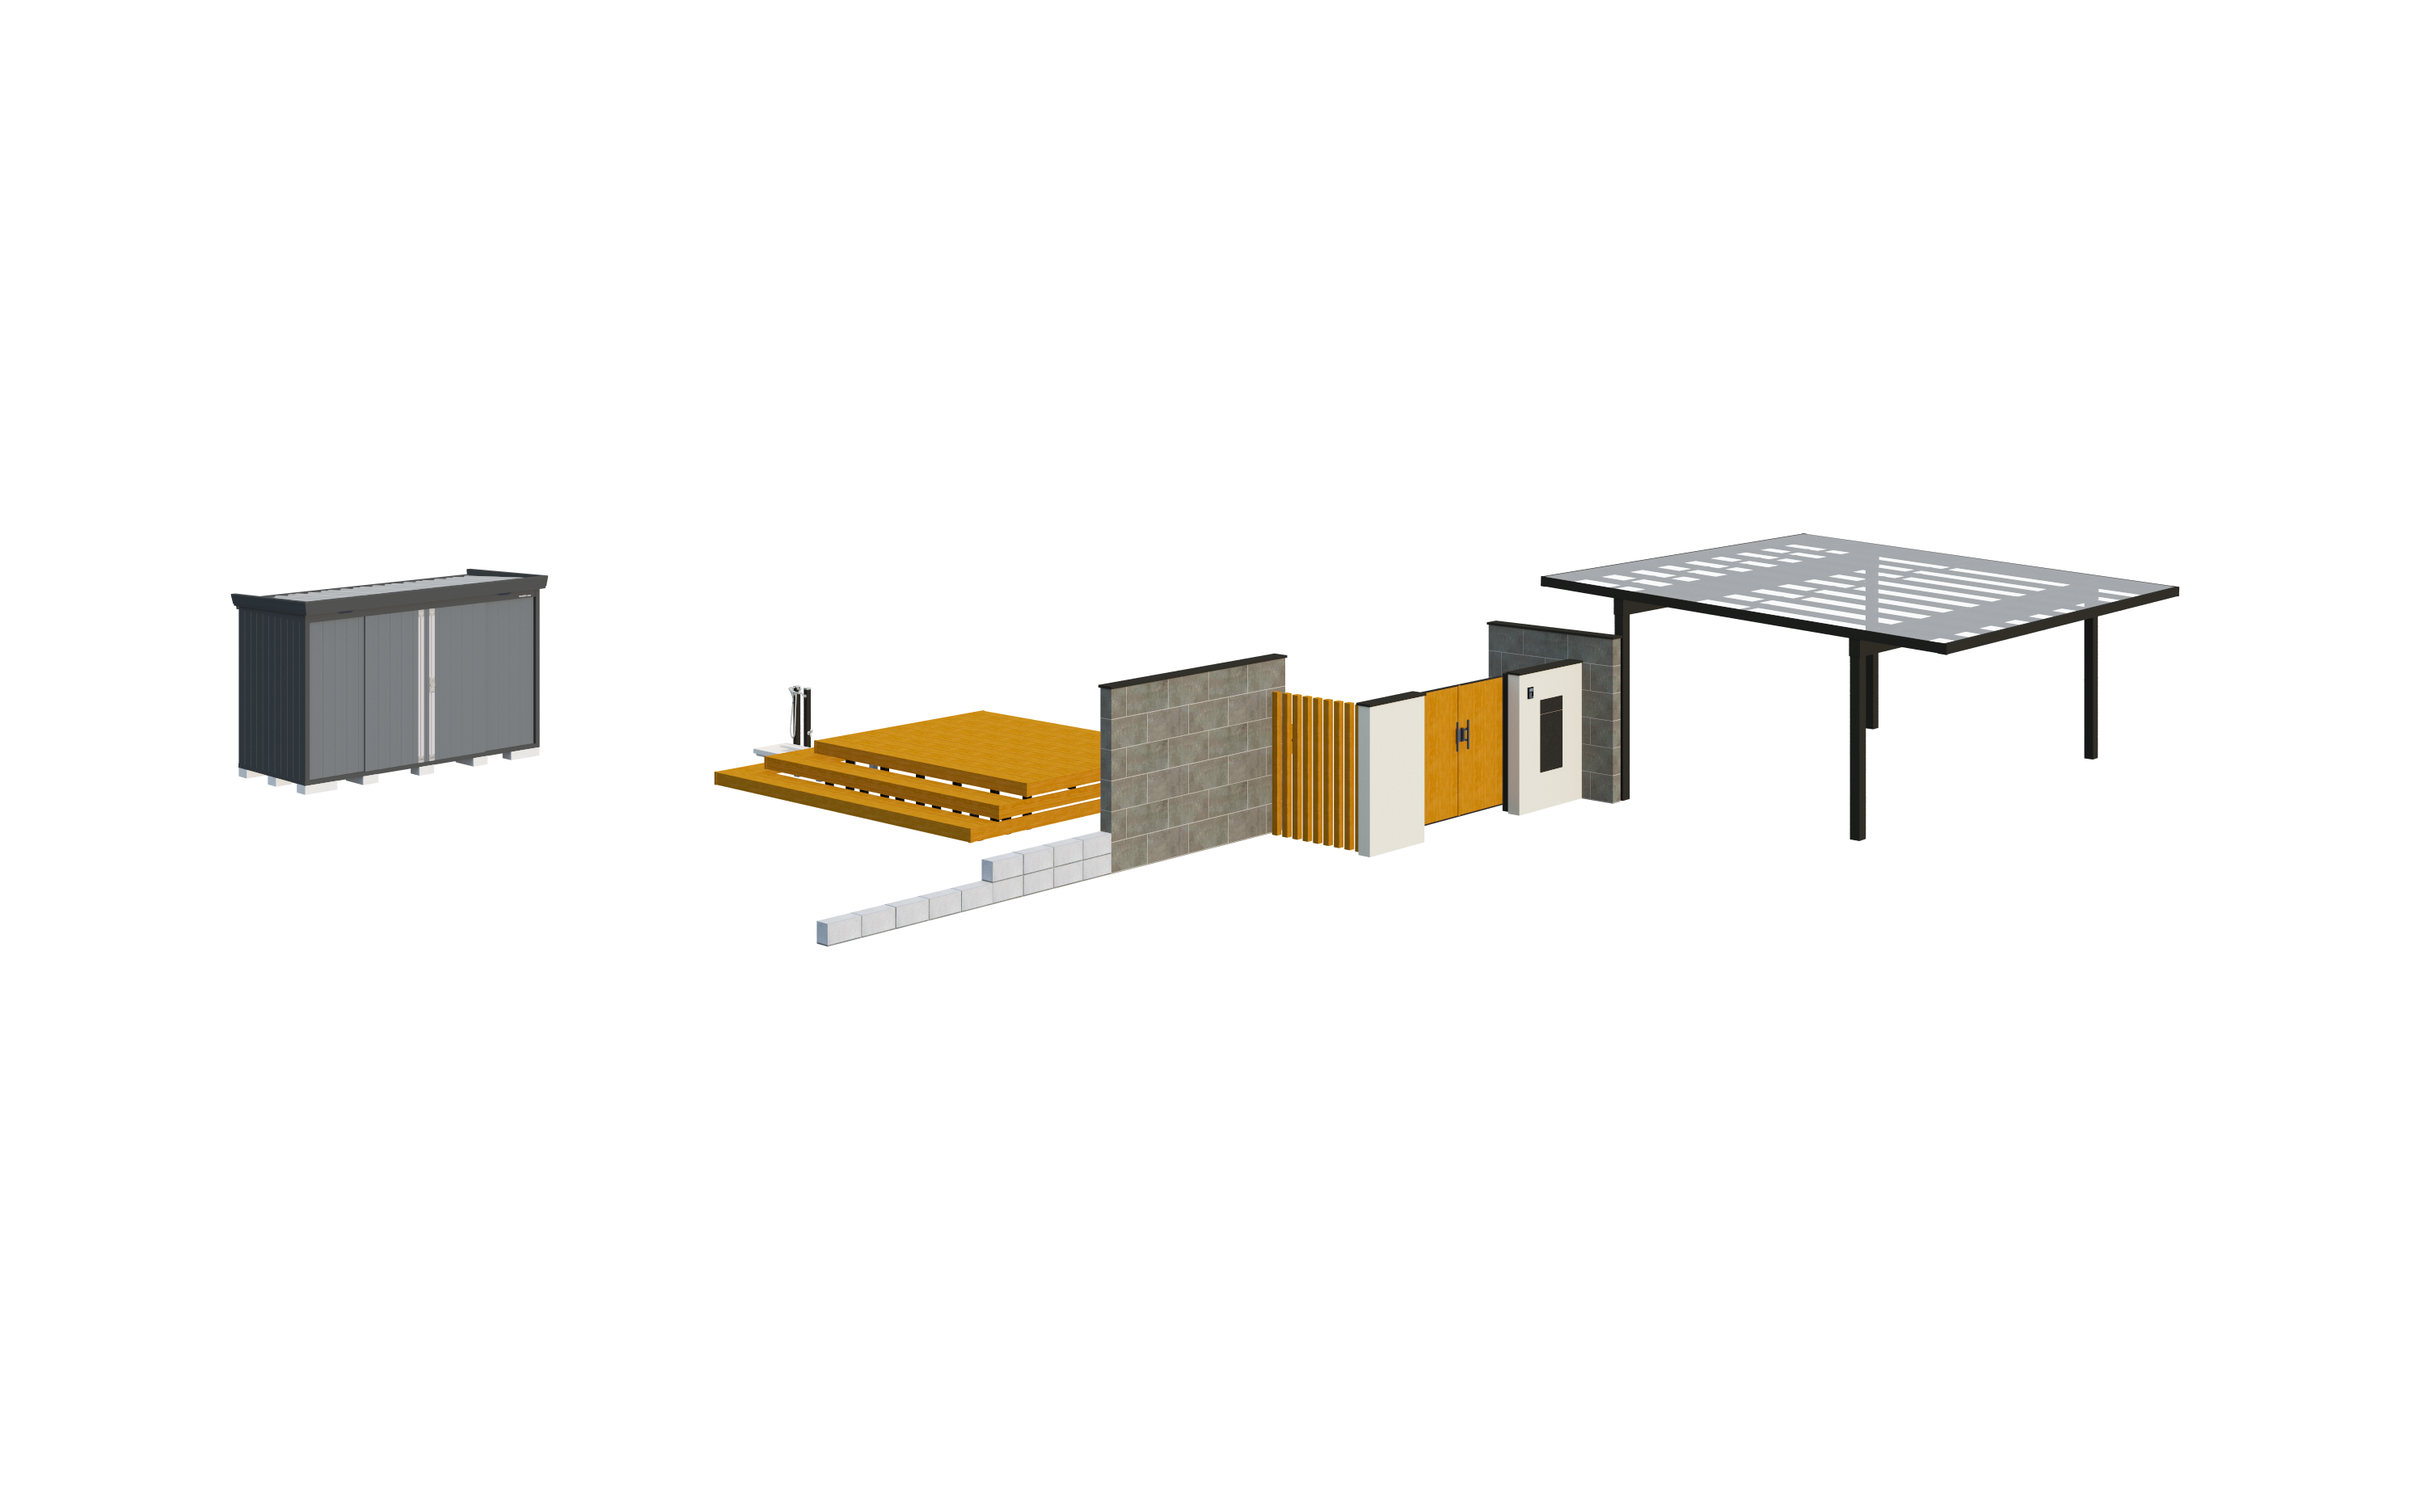
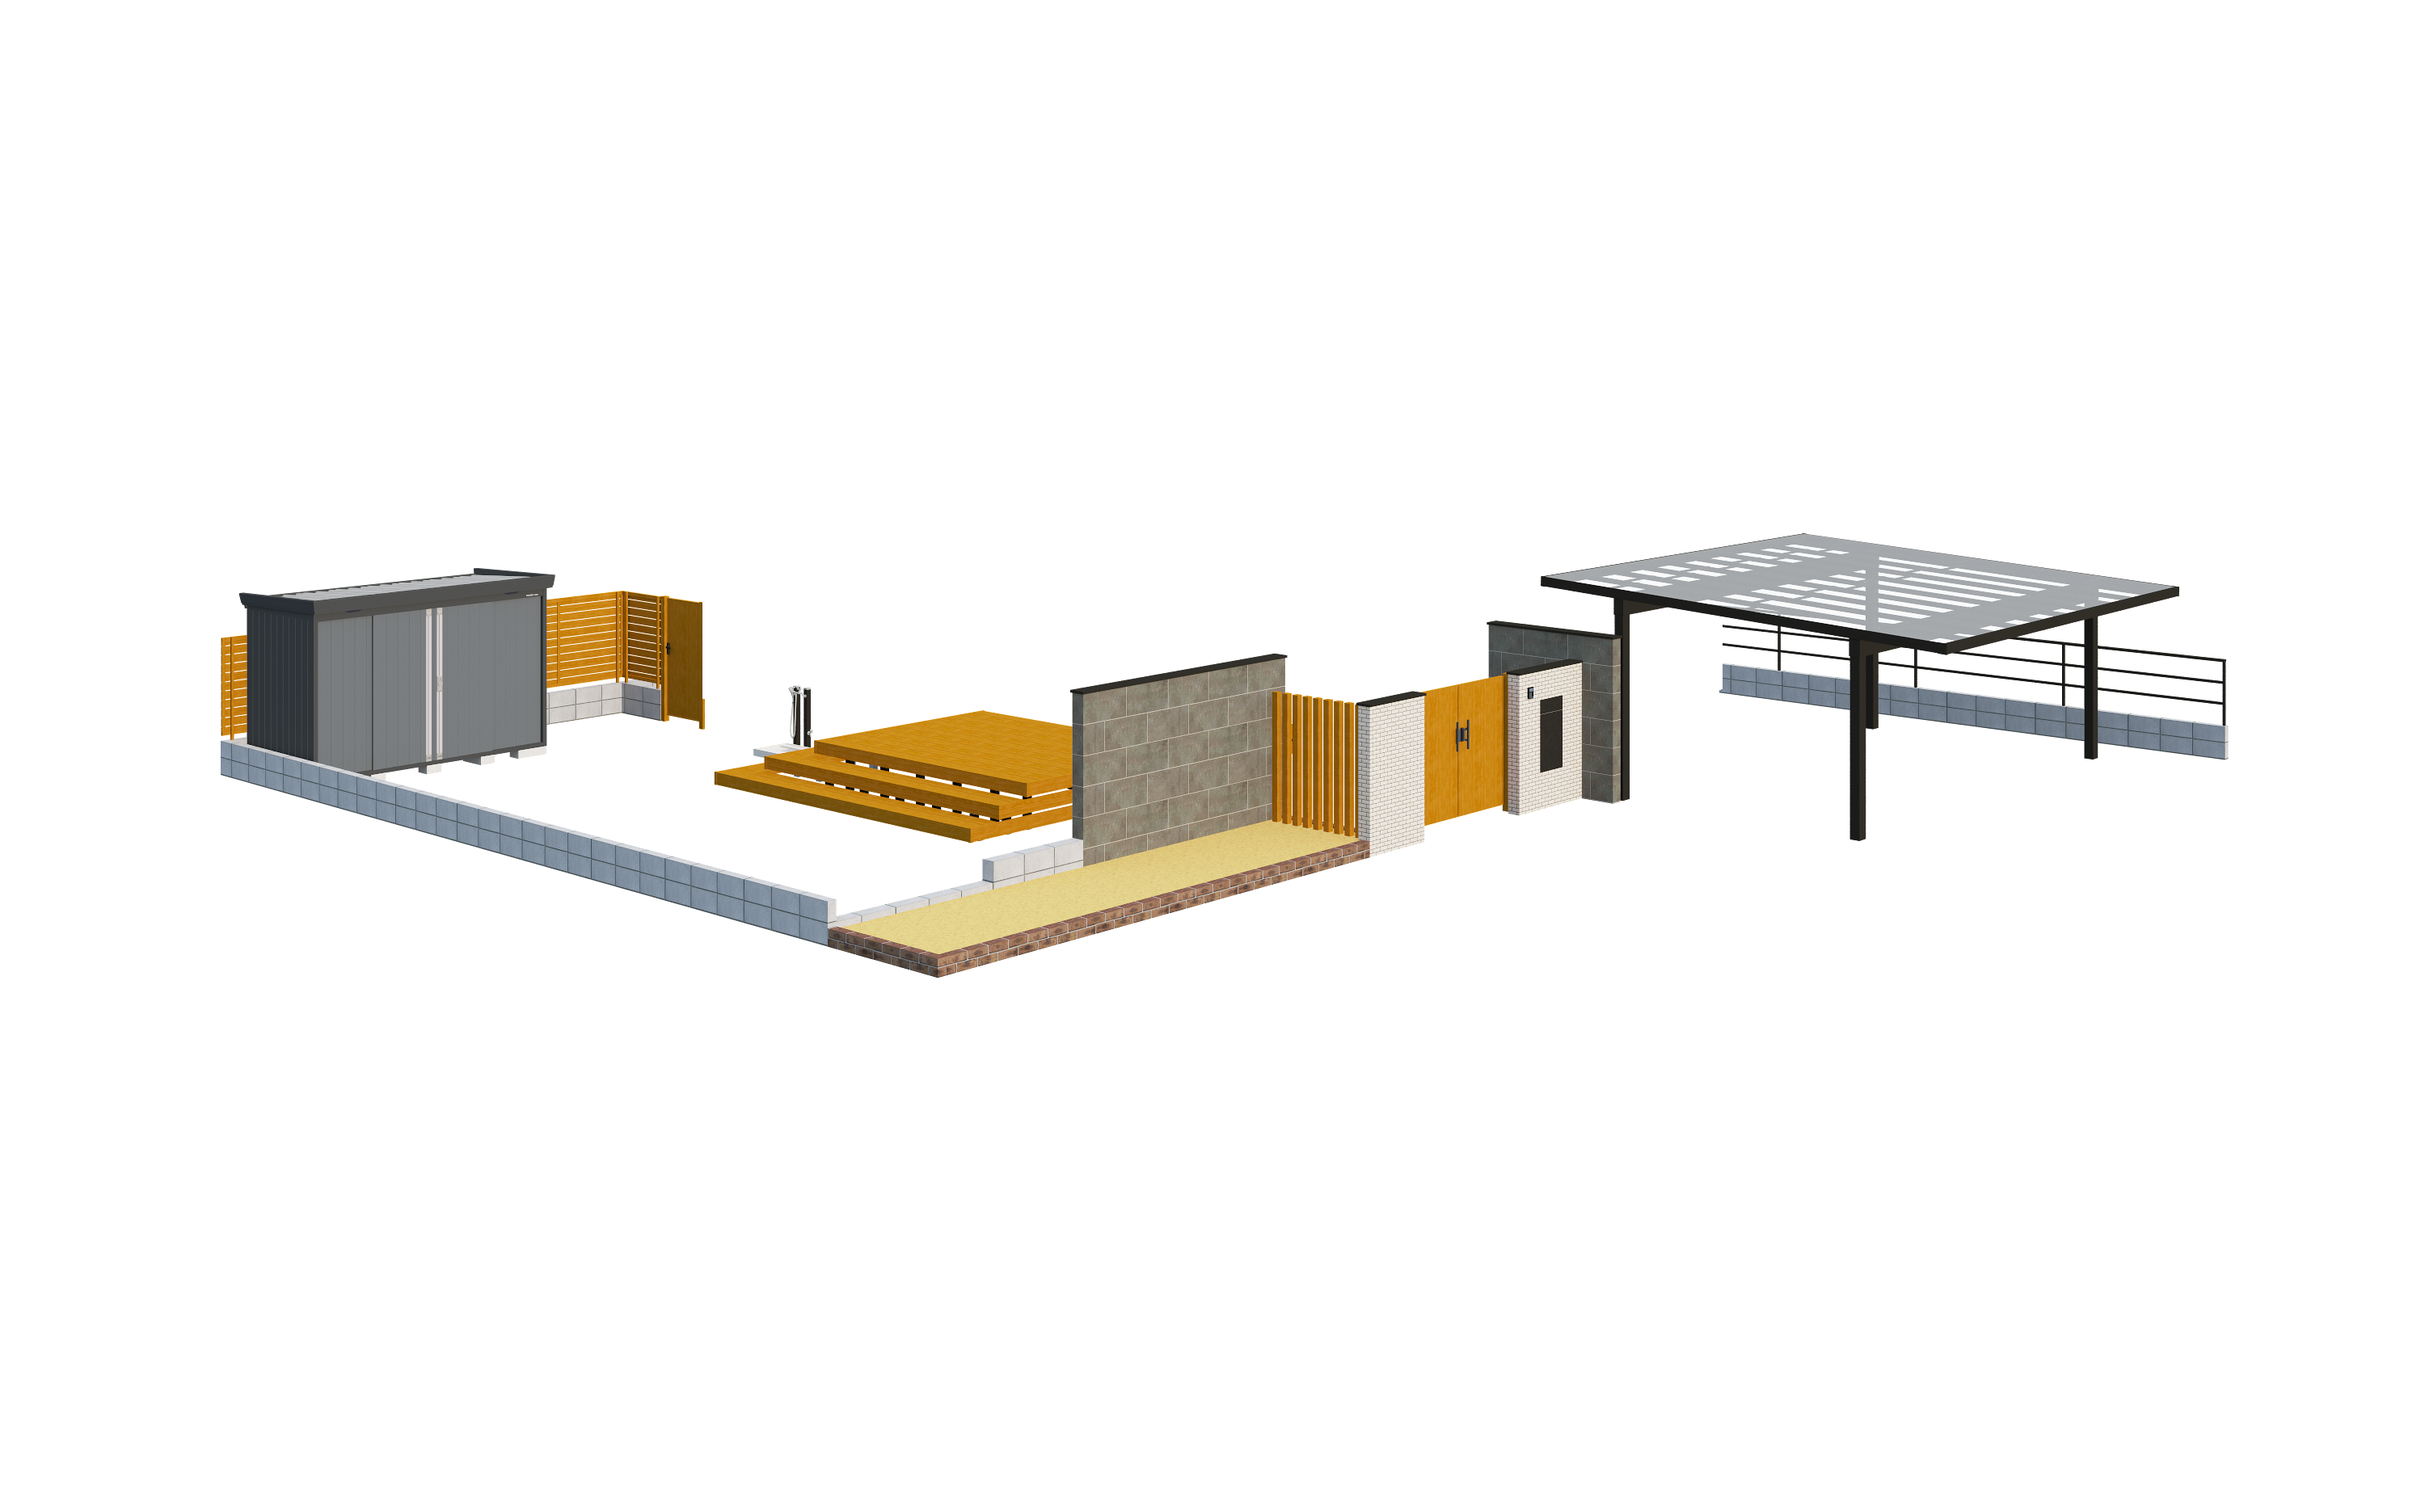
2026年10月27日 17:22

diff --git a/examples/hero-layers.html b/examples/hero-layers.html
@@ -17,21 +17,21 @@
         <!-- 01 台座：全画像の基準サイズ -->
         <div class="hex-hero-bg"><img class="hex-hero-plinth-image" src="plinth.png" alt=""></div>
         <!-- 02 図面：台座と同じ画像サイズ・構図 -->
-        <img class="hex-hero-layer hex-hero-drawing" src="drawing.png" alt="">
+        <img class="hex-hero-layer hex-hero-drawing" src="drawing.webp" alt="">
         <!-- 03 樹木1：位置とサイズを個別指定 -->
-        <img class="hex-hero-sprite hex-hero-sprite--tree01" src="tree01.png" alt="">
+        <img class="hex-hero-sprite hex-hero-sprite--tree01" src="tree01.webp" alt="">
         <!-- 04 建物：台座と同じ画像サイズ・構図 -->
-        <img class="hex-hero-layer hex-hero-house" src="house.png" alt="">
+        <img class="hex-hero-layer hex-hero-house" src="house.webp" alt="">
         <!-- 05 下草1：建物の手前に表示 -->
-        <img class="hex-hero-sprite hex-hero-sprite--underplant01" src="underplant01.png" alt="">
+        <img class="hex-hero-sprite hex-hero-sprite--underplant01" src="underplant01.webp" alt="">
         <!-- 06 下草2：下草1の直後、外構の奥に表示 -->
-        <img class="hex-hero-sprite hex-hero-sprite--underplant02" src="underplant02.png" alt="">
+        <img class="hex-hero-sprite hex-hero-sprite--underplant02" src="underplant02.webp" alt="">
         <!-- 07 外構：台座と同じ画像サイズ・構図 -->
-        <img class="hex-hero-layer hex-hero-exterior-image" src="exterior.png" alt="">
+        <img class="hex-hero-layer hex-hero-exterior-image" src="exterior.webp" alt="">
         <!-- 08～10 樹木2・樹木3・下草3 -->
-        <img class="hex-hero-sprite hex-hero-sprite--tree02" src="tree02.png" alt="">
-        <img class="hex-hero-sprite hex-hero-sprite--tree03" src="tree03.png" alt="">
-        <img class="hex-hero-sprite hex-hero-sprite--underplant03" src="underplant03.png" alt="">
+        <img class="hex-hero-sprite hex-hero-sprite--tree02" src="tree02.webp" alt="">
+        <img class="hex-hero-sprite hex-hero-sprite--tree03" src="tree03.webp" alt="">
+        <img class="hex-hero-sprite hex-hero-sprite--underplant03" src="underplant03.webp" alt="">
         <!-- 11～16 人物：位置とサイズを個別指定 -->
         <img class="hex-hero-character hex-hero-character--aluminum" src="aluminum.webp" alt="">
         <img class="hex-hero-character hex-hero-character--pruning" src="pruning.webp" alt="">

diff --git a/css/hex_pc.css b/css/hex_pc.css
@@ -4924,12 +4924,12 @@ html body
   pointer-events:none;
 }
 /* 樹木・下草の初期位置。各画像またはHTMLのstyleで個別調整可能。 */
-.hex-hero-sprite--tree01{--hex-sprite-x:15%;--hex-sprite-bottom:38%;--hex-sprite-width:12%;}
-.hex-hero-sprite--underplant01{--hex-sprite-x:13%;--hex-sprite-bottom:33%;--hex-sprite-width:16%;}
-.hex-hero-sprite--tree02{--hex-sprite-x:48%;--hex-sprite-bottom:40%;--hex-sprite-width:12%;}
-.hex-hero-sprite--underplant02{--hex-sprite-x:46%;--hex-sprite-bottom:35%;--hex-sprite-width:16%;}
-.hex-hero-sprite--tree03{--hex-sprite-x:69%;--hex-sprite-bottom:32%;--hex-sprite-width:12%;}
-.hex-hero-sprite--underplant03{--hex-sprite-x:67%;--hex-sprite-bottom:27%;--hex-sprite-width:16%;}
+.hex-hero-sprite--tree01{--hex-sprite-x:61.57333333%;--hex-sprite-bottom:52.54584682%;--hex-sprite-width:7.22666667%;}
+.hex-hero-sprite--underplant01{--hex-sprite-x:60.77333333%;--hex-sprite-bottom:48.87810140%;--hex-sprite-width:22.00000000%;}
+.hex-hero-sprite--tree02{--hex-sprite-x:22.37333333%;--hex-sprite-bottom:46.72060410%;--hex-sprite-width:8.64000000%;}
+.hex-hero-sprite--underplant02{--hex-sprite-x:24.16000000%;--hex-sprite-bottom:45.77130529%;--hex-sprite-width:5.89333333%;}
+.hex-hero-sprite--tree03{--hex-sprite-x:45.97333333%;--hex-sprite-bottom:43.91585761%;--hex-sprite-width:7.97333333%;}
+.hex-hero-sprite--underplant03{--hex-sprite-x:40.40000000%;--hex-sprite-bottom:39.55771305%;--hex-sprite-width:14.45333333%;}
 
 /* ヒーローを含む上位要素の切り抜きを解除 */
 .bg_post_index:has(.hex-hero-wrap),

diff --git a/js/hex.js b/js/hex.js
@@ -250,6 +250,7 @@ const HEX_IS_PRODUCTION=HEX_HOSTS.PRODUCTION.indexOf(location.hostname)!==-1;
     // Keep the existing six image basenames; only the format changes.
     file=file.replace(/^((?:left|right)_bottom0[1-3])\.png(?=[?#]|$)/i,'$1.webp');
     file=file.replace(/^(aluminum|pruning|sakan|block|supervisor|family)\.png(?=[?#]|$)/i,'$1.webp');
+    file=file.replace(/^(house|drawing|exterior|tree0[1-3]|underplant0[1-3])\.png(?=[?#]|$)/i,'$1.webp');
     if(!/^[^/\\?#]+\.(?:avif|gif|jpe?g|png|svg|webp)(?:[?#].*)?$/i.test(file))return null;
     return new URL(file,imageRoot).href;
   }
